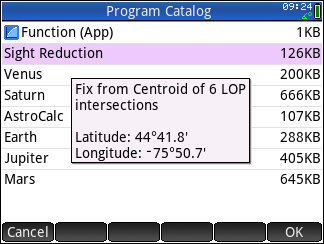
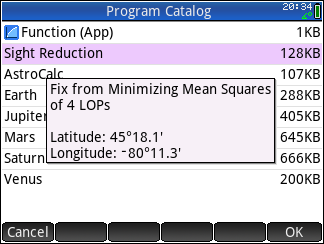
Replaced mean with least squares for 4+ LOP fixes

diff --git a/README.md b/README.md
@@ -273,7 +273,7 @@ Alternatively, the calculator can compute a fix based on LOPs. The computation v
 
   * 2 LOPs: the intersection of the 2 LOPs is the fix
   * 3 LOPs: the symmedian center, or Lemoine point, of the triangle formed by the 3 LOPs
-  * 4 or more LOPs: the centroid of all the intersections of the LOPs with one another, which is the mean value of longitude and latitude of all the intersections
+  * 4 or more LOPs: the coordinate that minimizes the square of the error with all LOPs. This is achieved using derivatives of a function which is the sum of the squares of the distance of the coordinate to each LOP.
 
 To compute a fix, run the **Sight Reduction** program and select **COMPUTE_FIX**. The output will indicate which method was used to compute the fix and the longitude and latitude of the fix. In the screen shots below, we computed a fix after two sights, then entered a third sight and computed the fix again, and entered a fourth sight and computed the fix again:
 
